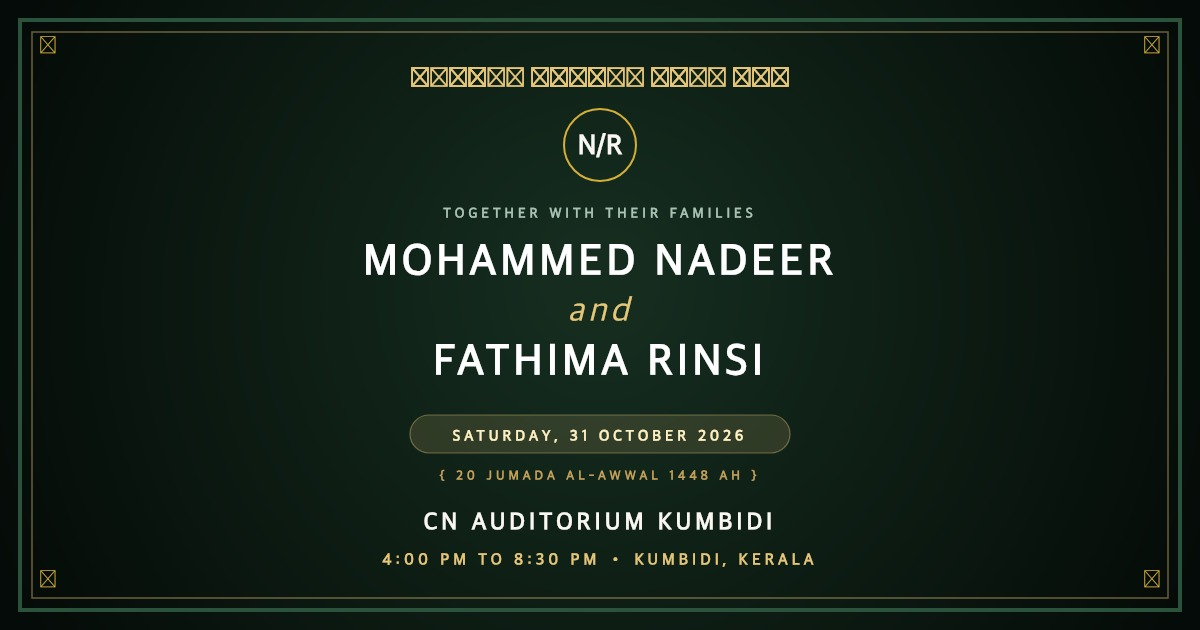
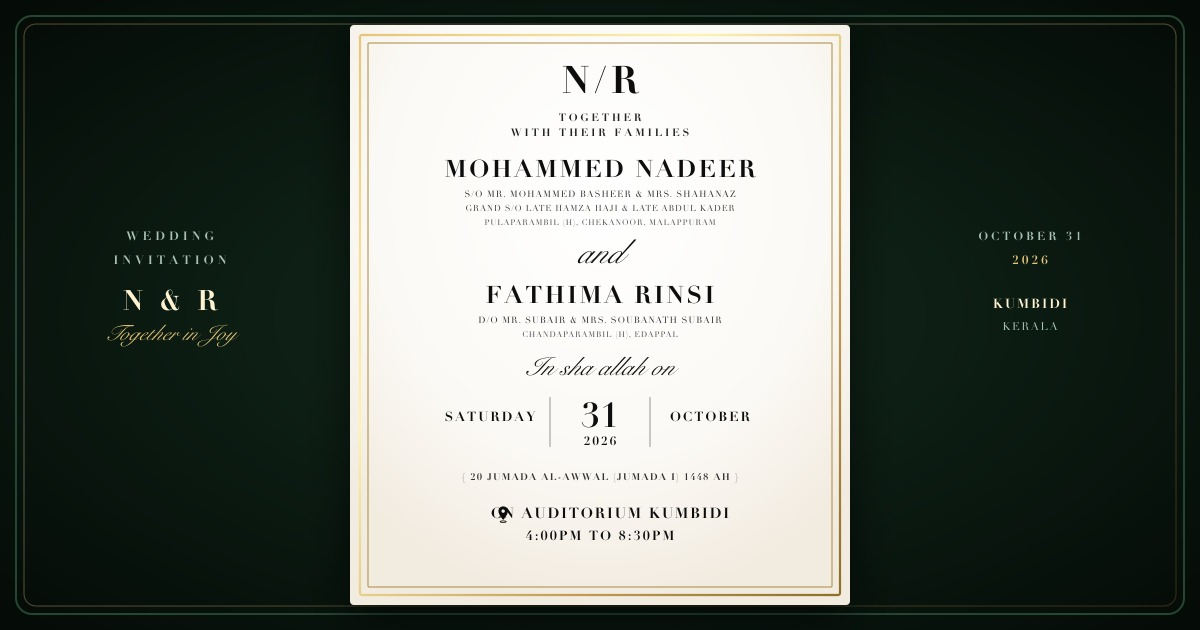
feat: luxury WhatsApp sharing thumbnails and clean invitation card design

diff --git a/scratch/render_whatsapp_thumbnails.js b/scratch/render_whatsapp_thumbnails.js
@@ -1,0 +1,259 @@
+const sharp = require('sharp');
+const fs = require('fs');
+
+// 1. Generate 600x600 Square WhatsApp Thumbnail
+function getSquareSVG() {
+  return `
+<svg width="600" height="600" viewBox="0 0 600 600" xmlns="http://www.w3.org/2000/svg">
+  <defs>
+    <!-- Paper gradient -->
+    <radialGradient id="paperGrad" cx="50%" cy="40%" r="65%">
+      <stop offset="0%" stop-color="#FFFFFF" />
+      <stop offset="60%" stop-color="#FBF9F5" />
+      <stop offset="100%" stop-color="#F3ECE2" />
+    </radialGradient>
+
+    <!-- Gold gradients -->
+    <linearGradient id="goldOuter" x1="0%" y1="0%" x2="100%" y2="100%">
+      <stop offset="0%" stop-color="#C5A059" />
+      <stop offset="30%" stop-color="#E5C578" />
+      <stop offset="70%" stop-color="#A58339" />
+      <stop offset="100%" stop-color="#8F6E28" />
+    </linearGradient>
+
+    <linearGradient id="goldInner" x1="0%" y1="0%" x2="100%" y2="100%">
+      <stop offset="0%" stop-color="#E5C578" />
+      <stop offset="50%" stop-color="#C5A059" />
+      <stop offset="100%" stop-color="#A58339" />
+    </linearGradient>
+
+    <filter id="shadow" x="-5%" y="-5%" width="110%" height="110%">
+      <feDropShadow dx="0" dy="4" stdDeviation="8" flood-color="#000000" flood-opacity="0.08" />
+    </filter>
+  </defs>
+
+  <!-- Background -->
+  <rect width="600" height="600" fill="#F0EBE1" />
+
+  <!-- Card Surface with shadow -->
+  <rect x="20" y="20" width="560" height="560" rx="4" fill="url(#paperGrad)" filter="url(#shadow)" />
+
+  <!-- Outer Gold Border -->
+  <rect x="28" y="28" width="544" height="544" rx="2" fill="none" stroke="url(#goldOuter)" stroke-width="2.5" />
+
+  <!-- Inner Gold Border -->
+  <rect x="38" y="38" width="524" height="524" rx="1" fill="none" stroke="url(#goldInner)" stroke-width="1.2" />
+
+  <!-- Top Monogram -->
+  <text x="300" y="88" font-family="Didot, 'Times New Roman', serif" font-size="42" font-weight="bold" letter-spacing="5" text-anchor="middle" fill="#111111">N/R</text>
+
+  <!-- Together with their families -->
+  <text x="300" y="118" font-family="Didot, 'Times New Roman', serif" font-size="11" font-weight="600" letter-spacing="3" text-anchor="middle" fill="#222222">TOGETHER</text>
+  <text x="300" y="133" font-family="Didot, 'Times New Roman', serif" font-size="11" font-weight="600" letter-spacing="3" text-anchor="middle" fill="#222222">WITH THEIR FAMILIES</text>
+
+  <!-- Groom Name -->
+  <text x="300" y="174" font-family="Didot, 'Times New Roman', serif" font-size="26" font-weight="bold" letter-spacing="2.5" text-anchor="middle" fill="#111111">MOHAMMED NADEER</text>
+
+  <!-- Groom Family -->
+  <text x="300" y="196" font-family="Didot, 'Times New Roman', serif" font-size="9.5" font-weight="500" letter-spacing="1" text-anchor="middle" fill="#333333">S/O MR. MOHAMMED BASHEER &amp; MRS. SHAHANAZ</text>
+  <text x="300" y="210" font-family="Didot, 'Times New Roman', serif" font-size="9" font-weight="500" letter-spacing="0.8" text-anchor="middle" fill="#444444">GRAND S/O LATE HAMZA HAJI &amp; LATE ABDUL KADER</text>
+  <text x="300" y="224" font-family="Didot, 'Times New Roman', serif" font-size="8.5" font-weight="500" letter-spacing="0.8" text-anchor="middle" fill="#555555">PULAPARAMBIL (H), CHEKANOOR, MALAPPURAM</text>
+
+  <!-- Connecting 'and' -->
+  <text x="300" y="262" font-family="'Snell Roundhand', 'Brush Script MT', cursive" font-size="36" font-style="italic" text-anchor="middle" fill="#111111">and</text>
+
+  <!-- Bride Name -->
+  <text x="300" y="302" font-family="Didot, 'Times New Roman', serif" font-size="26" font-weight="bold" letter-spacing="2.5" text-anchor="middle" fill="#111111">FATHIMA RINSI</text>
+
+  <!-- Bride Family -->
+  <text x="300" y="324" font-family="Didot, 'Times New Roman', serif" font-size="9.5" font-weight="500" letter-spacing="1" text-anchor="middle" fill="#333333">D/O MR. SUBAIR &amp; MRS. SOUBANATH SUBAIR</text>
+  <text x="300" y="338" font-family="Didot, 'Times New Roman', serif" font-size="8.5" font-weight="500" letter-spacing="0.8" text-anchor="middle" fill="#555555">CHANDAPARAMBIL (H), EDAPPAL</text>
+
+  <!-- In sha allah on -->
+  <text x="300" y="374" font-family="'Snell Roundhand', 'Brush Script MT', cursive" font-size="28" font-style="italic" text-anchor="middle" fill="#111111">In sha allah on</text>
+
+  <!-- Date Grid -->
+  <!-- Left Day Name -->
+  <text x="180" y="420" font-family="Didot, 'Times New Roman', serif" font-size="14" font-weight="bold" letter-spacing="2" text-anchor="middle" fill="#111111">SATURDAY</text>
+
+  <!-- Left Divider -->
+  <line x1="240" y1="395" x2="240" y2="445" stroke="#111111" stroke-width="1.2" opacity="0.35" />
+
+  <!-- Center Day Number & Year -->
+  <text x="300" y="426" font-family="Didot, 'Times New Roman', serif" font-size="36" font-weight="bold" text-anchor="middle" fill="#111111">31</text>
+  <text x="300" y="446" font-family="Didot, 'Times New Roman', serif" font-size="13" font-weight="bold" letter-spacing="2" text-anchor="middle" fill="#111111">2026</text>
+
+  <!-- Right Divider -->
+  <line x1="360" y1="395" x2="360" y2="445" stroke="#111111" stroke-width="1.2" opacity="0.35" />
+
+  <!-- Right Month Name -->
+  <text x="420" y="420" font-family="Didot, 'Times New Roman', serif" font-size="14" font-weight="bold" letter-spacing="2" text-anchor="middle" fill="#111111">OCTOBER</text>
+
+  <!-- Hijri Date -->
+  <text x="300" y="478" font-family="Didot, 'Times New Roman', serif" font-size="10.5" font-weight="600" letter-spacing="1.2" text-anchor="middle" fill="#333333">{ 20 JUMADA AL-AWWAL (JUMADA I) 1448 AH }</text>
+
+  <!-- Location Pin Icon -->
+  <g transform="translate(195, 503) scale(0.7)">
+    <path d="M12 2C8.13 2 5 5.13 5 9c0 5.25 7 13 7 13s7-7.75 7-13c0-3.87-3.13-7-7-7zm0 9.5a2.5 2.5 0 1 1 0-5 2.5 2.5 0 0 1 0 5z" fill="#111111" />
+    <ellipse cx="12" cy="24.5" rx="4.5" ry="1.2" fill="none" stroke="#111111" stroke-width="1.2"/>
+  </g>
+
+  <!-- Venue Name -->
+  <text x="312" y="516" font-family="Didot, 'Times New Roman', serif" font-size="15" font-weight="bold" letter-spacing="1.8" text-anchor="middle" fill="#111111">CN AUDITORIUM KUMBIDI</text>
+
+  <!-- Timing -->
+  <text x="300" y="538" font-family="Didot, 'Times New Roman', serif" font-size="13.5" font-weight="bold" letter-spacing="2" text-anchor="middle" fill="#111111">4:00PM TO 8:30PM</text>
+</svg>
+`;
+}
+
+// 2. Generate 1200x630 Landscape OpenGraph Card
+function getLandscapeSVG() {
+  return `
+<svg width="1200" height="630" viewBox="0 0 1200 630" xmlns="http://www.w3.org/2000/svg">
+  <defs>
+    <!-- Background Gradient -->
+    <radialGradient id="bgCanvas" cx="50%" cy="50%" r="70%">
+      <stop offset="0%" stop-color="#142C1E" />
+      <stop offset="60%" stop-color="#0A1810" />
+      <stop offset="100%" stop-color="#050B07" />
+    </radialGradient>
+
+    <!-- Card paper -->
+    <radialGradient id="cardPaper" cx="50%" cy="30%" r="70%">
+      <stop offset="0%" stop-color="#FFFFFF" />
+      <stop offset="65%" stop-color="#FBF9F5" />
+      <stop offset="100%" stop-color="#F2EBE0" />
+    </radialGradient>
+
+    <!-- Gold Gradients -->
+    <linearGradient id="goldFoil" x1="0%" y1="0%" x2="100%" y2="100%">
+      <stop offset="0%" stop-color="#E5C578" />
+      <stop offset="35%" stop-color="#FFF3B0" />
+      <stop offset="70%" stop-color="#C5A059" />
+      <stop offset="100%" stop-color="#8F6E28" />
+    </linearGradient>
+
+    <filter id="cardShadow" x="-10%" y="-10%" width="120%" height="120%">
+      <feDropShadow dx="0" dy="12" stdDeviation="24" flood-color="#000000" flood-opacity="0.65" />
+    </filter>
+  </defs>
+
+  <!-- Canvas Background -->
+  <rect width="1200" height="630" fill="url(#bgCanvas)" />
+
+  <!-- Outer Canvas Border -->
+  <rect x="16" y="16" width="1168" height="598" rx="16" fill="none" stroke="#254633" stroke-width="2" />
+  <rect x="24" y="24" width="1152" height="582" rx="12" fill="none" stroke="url(#goldFoil)" stroke-width="1" opacity="0.35" />
+
+  <!-- Centered Wedding Card with Drop Shadow -->
+  <!-- Card bounds: X: 350, Y: 25, W: 500, H: 580 -->
+  <g transform="translate(350, 25)" filter="url(#cardShadow)">
+    <rect width="500" height="580" rx="4" fill="url(#cardPaper)" />
+
+    <!-- Outer Gold Border -->
+    <rect x="10" y="10" width="480" height="560" rx="2" fill="none" stroke="url(#goldFoil)" stroke-width="2.2" />
+
+    <!-- Inner Gold Border -->
+    <rect x="18" y="18" width="464" height="544" rx="1" fill="none" stroke="#A58339" stroke-width="1.2" opacity="0.8" />
+
+    <!-- Monogram -->
+    <text x="250" y="68" font-family="Didot, 'Times New Roman', serif" font-size="38" font-weight="bold" letter-spacing="5" text-anchor="middle" fill="#111111">N/R</text>
+
+    <!-- Together with their families -->
+    <text x="250" y="96" font-family="Didot, 'Times New Roman', serif" font-size="10.5" font-weight="600" letter-spacing="2.8" text-anchor="middle" fill="#222222">TOGETHER</text>
+    <text x="250" y="111" font-family="Didot, 'Times New Roman', serif" font-size="10.5" font-weight="600" letter-spacing="2.8" text-anchor="middle" fill="#222222">WITH THEIR FAMILIES</text>
+
+    <!-- Groom -->
+    <text x="250" y="152" font-family="Didot, 'Times New Roman', serif" font-size="24" font-weight="bold" letter-spacing="2.5" text-anchor="middle" fill="#111111">MOHAMMED NADEER</text>
+    <text x="250" y="172" font-family="Didot, 'Times New Roman', serif" font-size="9" font-weight="500" letter-spacing="1" text-anchor="middle" fill="#333333">S/O MR. MOHAMMED BASHEER &amp; MRS. SHAHANAZ</text>
+    <text x="250" y="186" font-family="Didot, 'Times New Roman', serif" font-size="8.5" font-weight="500" letter-spacing="0.8" text-anchor="middle" fill="#444444">GRAND S/O LATE HAMZA HAJI &amp; LATE ABDUL KADER</text>
+    <text x="250" y="200" font-family="Didot, 'Times New Roman', serif" font-size="8" font-weight="500" letter-spacing="0.8" text-anchor="middle" fill="#555555">PULAPARAMBIL (H), CHEKANOOR, MALAPPURAM</text>
+
+    <!-- and -->
+    <text x="250" y="238" font-family="'Snell Roundhand', 'Brush Script MT', cursive" font-size="34" font-style="italic" text-anchor="middle" fill="#111111">and</text>
+
+    <!-- Bride -->
+    <text x="250" y="278" font-family="Didot, 'Times New Roman', serif" font-size="24" font-weight="bold" letter-spacing="2.5" text-anchor="middle" fill="#111111">FATHIMA RINSI</text>
+    <text x="250" y="298" font-family="Didot, 'Times New Roman', serif" font-size="9" font-weight="500" letter-spacing="1" text-anchor="middle" fill="#333333">D/O MR. SUBAIR &amp; MRS. SOUBANATH SUBAIR</text>
+    <text x="250" y="312" font-family="Didot, 'Times New Roman', serif" font-size="8" font-weight="500" letter-spacing="0.8" text-anchor="middle" fill="#555555">CHANDAPARAMBIL (H), EDAPPAL</text>
+
+    <!-- In sha allah on -->
+    <text x="250" y="350" font-family="'Snell Roundhand', 'Brush Script MT', cursive" font-size="26" font-style="italic" text-anchor="middle" fill="#111111">In sha allah on</text>
+
+    <!-- Date Grid -->
+    <text x="140" y="396" font-family="Didot, 'Times New Roman', serif" font-size="13" font-weight="bold" letter-spacing="2" text-anchor="middle" fill="#111111">SATURDAY</text>
+    <line x1="200" y1="372" x2="200" y2="422" stroke="#111111" stroke-width="1.2" opacity="0.35" />
+    <text x="250" y="402" font-family="Didot, 'Times New Roman', serif" font-size="34" font-weight="bold" text-anchor="middle" fill="#111111">31</text>
+    <text x="250" y="420" font-family="Didot, 'Times New Roman', serif" font-size="12" font-weight="bold" letter-spacing="2" text-anchor="middle" fill="#111111">2026</text>
+    <line x1="300" y1="372" x2="300" y2="422" stroke="#111111" stroke-width="1.2" opacity="0.35" />
+    <text x="360" y="396" font-family="Didot, 'Times New Roman', serif" font-size="13" font-weight="bold" letter-spacing="2" text-anchor="middle" fill="#111111">OCTOBER</text>
+
+    <!-- Hijri -->
+    <text x="250" y="455" font-family="Didot, 'Times New Roman', serif" font-size="9.5" font-weight="600" letter-spacing="1.2" text-anchor="middle" fill="#333333">{ 20 JUMADA AL-AWWAL (JUMADA I) 1448 AH }</text>
+
+    <!-- Venue & Time -->
+    <g transform="translate(145, 480) scale(0.68)">
+      <path d="M12 2C8.13 2 5 5.13 5 9c0 5.25 7 13 7 13s7-7.75 7-13c0-3.87-3.13-7-7-7zm0 9.5a2.5 2.5 0 1 1 0-5 2.5 2.5 0 0 1 0 5z" fill="#111111" />
+      <ellipse cx="12" cy="24.5" rx="4.5" ry="1.2" fill="none" stroke="#111111" stroke-width="1.2"/>
+    </g>
+    <text x="260" y="493" font-family="Didot, 'Times New Roman', serif" font-size="14.5" font-weight="bold" letter-spacing="1.8" text-anchor="middle" fill="#111111">CN AUDITORIUM KUMBIDI</text>
+    <text x="250" y="515" font-family="Didot, 'Times New Roman', serif" font-size="13" font-weight="bold" letter-spacing="2" text-anchor="middle" fill="#111111">4:00PM TO 8:30PM</text>
+  </g>
+
+  <!-- Left Accent Banner (Dark velvet side) -->
+  <g transform="translate(60, 240)">
+    <text x="110" y="0" font-family="Didot, 'Times New Roman', serif" font-size="12" font-weight="bold" letter-spacing="4" text-anchor="middle" fill="#A8C2B3">WEDDING</text>
+    <text x="110" y="24" font-family="Didot, 'Times New Roman', serif" font-size="12" font-weight="bold" letter-spacing="4" text-anchor="middle" fill="#A8C2B3">INVITATION</text>
+    <line x1="60" y1="42" x2="160" y2="42" stroke="url(#goldFoil)" stroke-width="1.5" />
+    <text x="110" y="70" font-family="Didot, 'Times New Roman', serif" font-size="28" font-weight="bold" letter-spacing="4" text-anchor="middle" fill="#FFF2D1">N &amp; R</text>
+    <text x="110" y="100" font-family="'Snell Roundhand', cursive" font-size="22" font-style="italic" text-anchor="middle" fill="#E5C578">Together in Joy</text>
+  </g>
+
+  <!-- Right Accent Banner -->
+  <g transform="translate(920, 240)">
+    <text x="110" y="0" font-family="Didot, 'Times New Roman', serif" font-size="11.5" font-weight="bold" letter-spacing="3" text-anchor="middle" fill="#A8C2B3">OCTOBER 31</text>
+    <text x="110" y="24" font-family="Didot, 'Times New Roman', serif" font-size="12" font-weight="bold" letter-spacing="3" text-anchor="middle" fill="#E5C578">2026</text>
+    <line x1="60" y1="42" x2="160" y2="42" stroke="url(#goldFoil)" stroke-width="1.5" />
+    <text x="110" y="68" font-family="Didot, 'Times New Roman', serif" font-size="13" font-weight="bold" letter-spacing="2" text-anchor="middle" fill="#FFF2D1">KUMBIDI</text>
+    <text x="110" y="90" font-family="Didot, 'Times New Roman', serif" font-size="11" letter-spacing="1.5" text-anchor="middle" fill="#A8C2B3">KERALA</text>
+  </g>
+</svg>
+`;
+}
+
+async function renderThumbnails() {
+  const squareSvg = getSquareSVG();
+  const landscapeSvg = getLandscapeSVG();
+
+  // Render square 600x600 JPEG
+  const squareBuf = await sharp(Buffer.from(squareSvg))
+    .jpeg({ quality: 92 })
+    .toBuffer();
+
+  // Render landscape 1200x630 JPEG
+  const landscapeBuf = await sharp(Buffer.from(landscapeSvg))
+    .jpeg({ quality: 92 })
+    .toBuffer();
+
+  // Save all square files (WhatsApp mobile previews)
+  fs.writeFileSync('thumb.jpg', squareBuf);
+  fs.writeFileSync('whatsapp-preview.jpg', squareBuf);
+  fs.writeFileSync('assets/images/og_thumb_square.jpg', squareBuf);
+  fs.writeFileSync('assets/images/og_preview_square.jpg', squareBuf);
+
+  // Save all landscape files (WhatsApp Web / OG Large image previews)
+  fs.writeFileSync('og-image.jpg', landscapeBuf);
+  fs.writeFileSync('preview.jpg', landscapeBuf);
+  fs.writeFileSync('assets/images/og_preview.jpg', landscapeBuf);
+  fs.writeFileSync('assets/images/whatsapp_thumbnail.jpg', landscapeBuf);
+  fs.writeFileSync('assets/images/og_preview_ashin_vrinda.jpg', landscapeBuf);
+
+  console.log('✅ Generated luxury WhatsApp thumbnails successfully!');
+  console.log('Square size:', squareBuf.length, 'bytes');
+  console.log('Landscape size:', landscapeBuf.length, 'bytes');
+}
+
+renderThumbnails().catch(err => {
+  console.error('Rendering error:', err);
+});

diff --git a/index.html b/index.html
@@ -13,19 +13,20 @@
   <meta property="og:url" content="https://nadeer-rinsi.vercel.app/" />
   <meta property="og:type" content="website" />
   <meta property="og:site_name" content="Mohammed Nadeer &amp; Fathima Rinsi Wedding" />
-  <meta property="og:image" content="https://nadeer-rinsi.vercel.app/og-image.jpg" />
-  <meta property="og:image:secure_url" content="https://nadeer-rinsi.vercel.app/og-image.jpg" />
-  <meta property="og:image:type" content="image/jpeg" />
-  <meta property="og:image:width" content="1200" />
-  <meta property="og:image:height" content="630" />
-  <meta property="og:image:alt" content="Wedding Invitation: Mohammed Nadeer &amp; Fathima Rinsi" />
-  
-  <!-- Fallback WhatsApp Square Thumbnail -->
+  <!-- WhatsApp Mobile Chat Square Thumbnail (Priority) -->
   <meta property="og:image" content="https://nadeer-rinsi.vercel.app/thumb.jpg" />
   <meta property="og:image:secure_url" content="https://nadeer-rinsi.vercel.app/thumb.jpg" />
   <meta property="og:image:type" content="image/jpeg" />
   <meta property="og:image:width" content="600" />
   <meta property="og:image:height" content="600" />
+  <meta property="og:image:alt" content="Wedding Invitation: Mohammed Nadeer &amp; Fathima Rinsi" />
+
+  <!-- Landscape Card for Desktop / Twitter / Large Link Previews -->
+  <meta property="og:image" content="https://nadeer-rinsi.vercel.app/og-image.jpg" />
+  <meta property="og:image:secure_url" content="https://nadeer-rinsi.vercel.app/og-image.jpg" />
+  <meta property="og:image:type" content="image/jpeg" />
+  <meta property="og:image:width" content="1200" />
+  <meta property="og:image:height" content="630" />
   
   <link rel="image_src" href="https://nadeer-rinsi.vercel.app/thumb.jpg" />
   <meta itemprop="image" content="https://nadeer-rinsi.vercel.app/thumb.jpg" />
